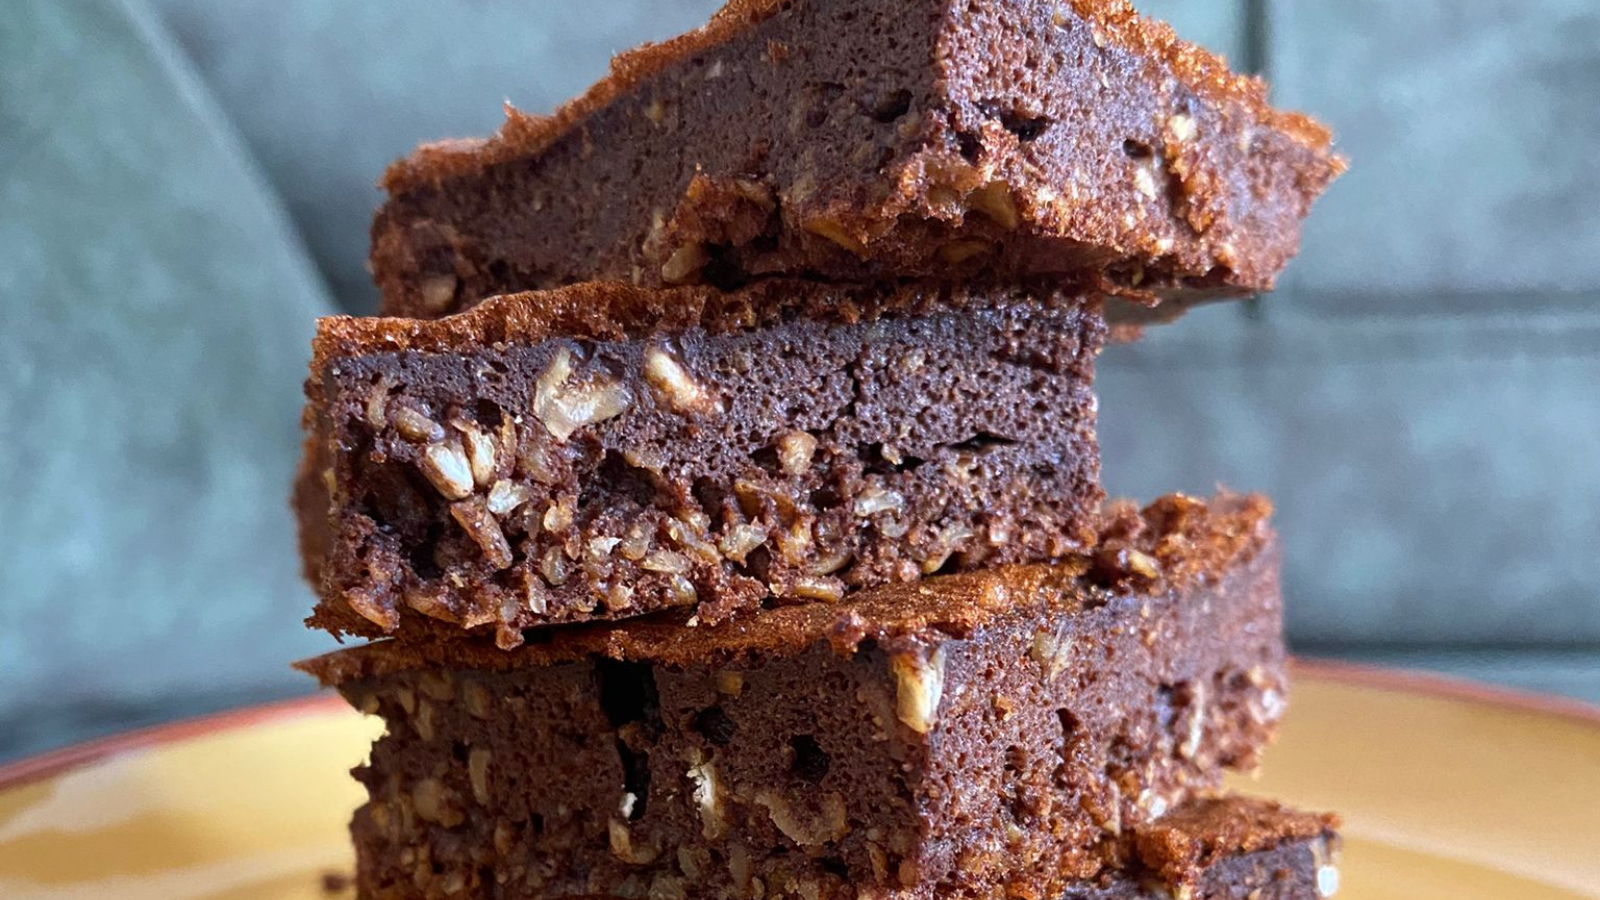
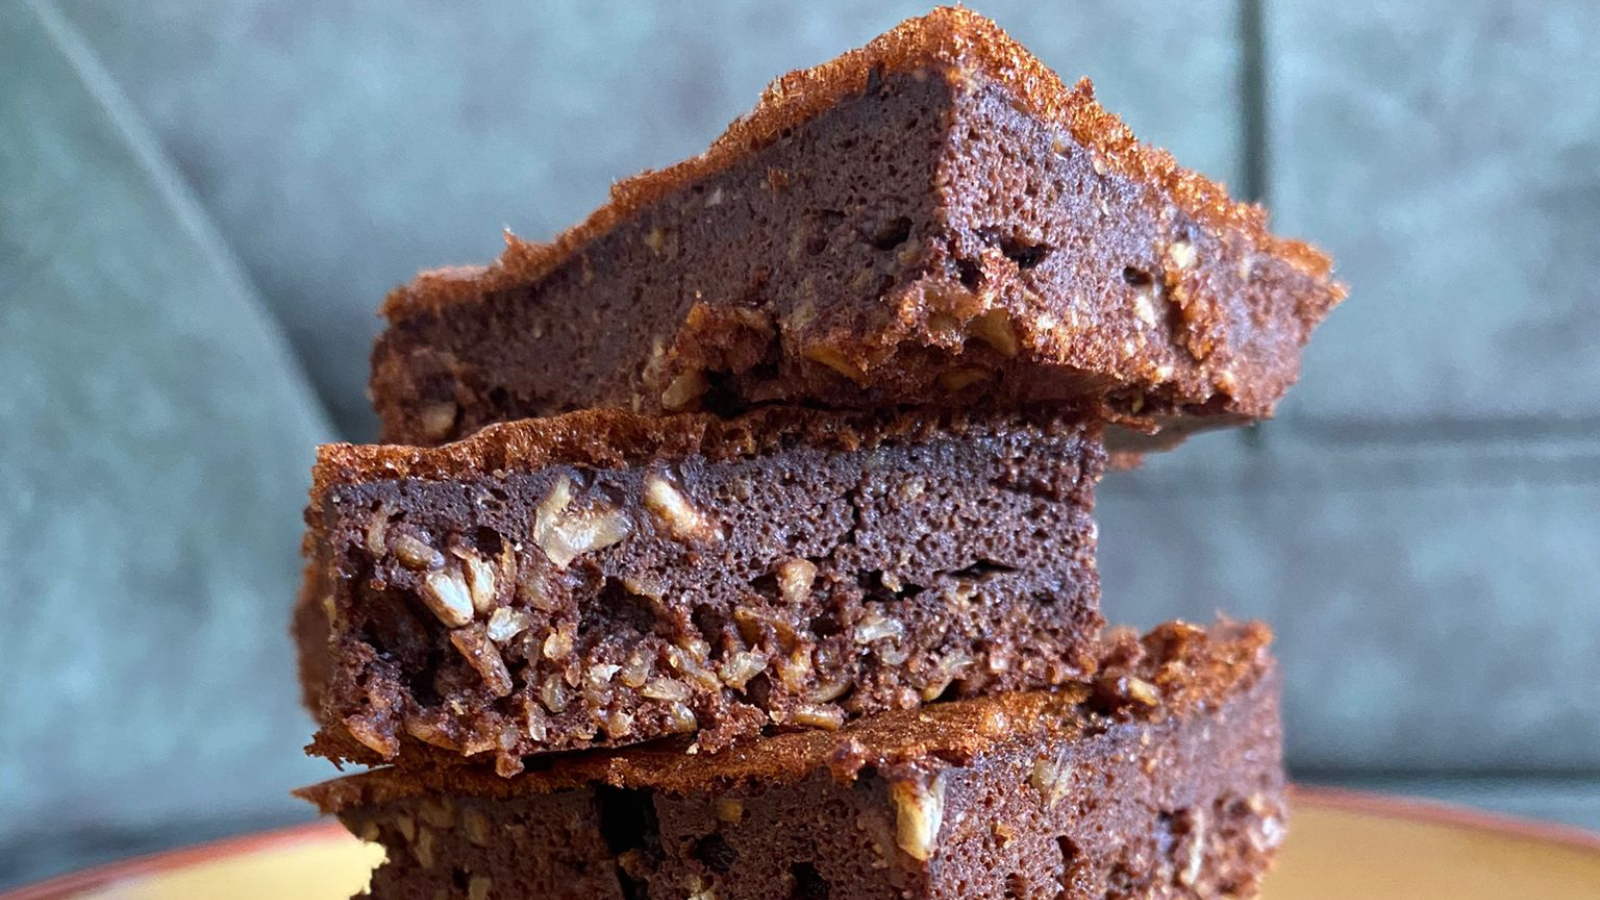
cloudcake page finished

diff --git a/CloudCake.html b/CloudCake.html
@@ -39,42 +39,39 @@
       
         <div id="meals-container">
             <div id="meal-image">
-                <img src="images/chicken.png" alt="">
+                <img src="images/cloudcake.png" alt="">
             </div>
             
-            <div id="title-meal"> 
-             <h1>French Chicken with Yoghurt Sause</h1>
+            <div id="title-meal-cake"> 
+             <h1>Zero Cloud Cake</h1>
              </div>
  
-             <div id="meal-parapraph">
-                <p id="entrance">If you like to try new but delicious chicken recipes, 
-                    I highly recommend you to give a chance to this dish. 
-                    You may feel like
-                     you are at a famous French restaurant, but this time you are the chef. 
-                     The chicken is juicy and delicious, the sauce is creamy, but there is no cream in it.</p>
+             <div id="meal-parapraph-cake">
+                <p id="entrance">NO sugar NO flour but it’s as soft as cloud… 
+                    I have a very delicious recipe for you to enjoy with your coffee.  
+                    Hey, don’t worry. I said “no sugar”, not “no sweet”</p>
              </div>
             <div class="grid-container">
              <div id="meal-ingredients">
                  <h1 id="Ingredients">Ingredients</h1>
                  <ul id="recipe-steps">
-                    <li>1 kg chicken drumstick</li>
-                    <li>200 g mushrooms</li>
-                    <li>2 onions</li>
-                    <li>3 cloves of garlic</li>
-                    <li>1 sprig of rosemary (optional)</li>
-                    <li>1 tablespoon of olive oil</li>
-                    <li>2 bay leaves</li>
-                    <li>2 tablespoons of flour</li>
-                    <li>3 tablespoons of yogurt</li>
-                    <li>Half a glass of soda</li>
-                    <li>Parsley</li>
-                    <li>Salt, pepper</li>
+                    <li>3 eggs</li>
+                    <li>4 tablespoons of coconut oil </li>
+                    <li>50 ml milk</li>
+                    <li>1 tablespoon of cacao powder</li>
+                    <li>3 tablespoons of carob flour</li>
+                    <li>3 tablespoons of carob molasses</li>
+                    <li>3,4 tablespoons of oat flour </li>
+                    <li>1 tablespoon of almond flour</li>
+                    <li>1 teaspoon of baking powder</li>
+                    
                   </ul>
                 </div>
-                <div id="recipe-make">
-                  <p>Season the chicken with salt and pepper. Pour olive oil into the pan and seal the chickens for 8 or 9 minutes. Take the sealed chickens aside, put the julienned onions, bay leaf, rosemary and sliced garlic into the same pot and sauté for a while. Then add the mushrooms and cook well. </p>
-                  <p>Remember removing bay leaves before adding soda. Put the chickens back in the pot and fill them with water until it’s just over them. Cook for 10 minutes with the lid closed and 20 minutes with the lid open. (If you like, you may add extra salt and pepper at this stage.) Take the chickens out of the pot. Mix the flour and yogurt in a bowl.</p>
-                  <p>Temper the yogurt with the water in the pot. Gently pour the tempered yogurt into the pot. Then put the chicken drumsticks back, add the chopped parsley on them and cook for another 5 minutes to thicken the sauce. Bon appetite!</p>
+                <div id="recipe-make-cake">
+                  <p>Beat the eggs well and pour oil and molasses and mix. Then, add dry ingredients and mix again. </p>
+                  <p> Let me warn you here: If you really want a cake with zero sugar, make sure to use sugar-free carob molasses. </p>
+                  <p>Also, the consistency will be very soft, please do not add extra flour :D But if you wish some crunchiness, you can add extra hazelnuts or walnuts to the mixture.</p>
+                  <p>Pour the mixture into a square pan, bake at 150C for 20 minutes. You can serve warm. Enjoy your own cloud cake.</p>
                 </div>
             
             

diff --git a/css/style.css b/css/style.css
@@ -313,6 +313,7 @@ nav a:hover
   color: rgb(139, 134, 134);
   font-size: 18px;
   margin-bottom: 70px;
+ 
 }
 
 .grid-container
@@ -329,7 +330,7 @@ nav a:hover
   font-size: 35px;
   color: rgb(68, 65, 65);
   margin-left: 165px;
-  margin-top: 0%;
+  margin-top: 0px;
  
 }
 
@@ -400,4 +401,45 @@ nav a:hover
   text-align: center;
   top: 83%;
   left: 24%;
+}
+
+#title-meal-souffle
+{
+  font-family: 'Sue Ellen Francisco', cursive;
+  font-size: 25px;
+  position:absolute;
+  color: rgb(68, 65, 65);
+  left: 44%;
+  top: 65%;
+}
+
+#title-meal-cake
+{
+  font-family: 'Sue Ellen Francisco', cursive;
+  font-size: 25px;
+  position:absolute;
+  color: rgb(68, 65, 65);
+  left: 44%;
+  top: 65%;
+}
+
+#meal-parapraph-cake p
+{
+  margin: 0 0 10px;
+  line-height: 2;
+  position:absolute;
+  width: 700px;
+  color: rgb(139, 134, 134);
+  margin-top:0px;
+  font-size:18px;
+  text-align: center;
+  top: 80%;
+  left: 27%;
+}
+#recipe-make-cake
+{
+  margin-top: 30px;
+  color: rgb(139, 134, 134);
+  width: 500px;
+  font-size: 18px;
 }

diff --git a/SouffleBanana.html b/SouffleBanana.html
@@ -39,11 +39,11 @@
       
         <div id="meals-container">
             <div id="meal-image">
-                <img src="images/chicken.png" alt="">
+                <img src="images/souffle.png" alt="">
             </div>
             
-            <div id="title-meal"> 
-             <h1>French Chicken with Yoghurt Sause</h1>
+            <div id="title-meal-souffle"> 
+             <h1>Souffle Banana</h1>
              </div>
  
              <div id="meal-parapraph">
